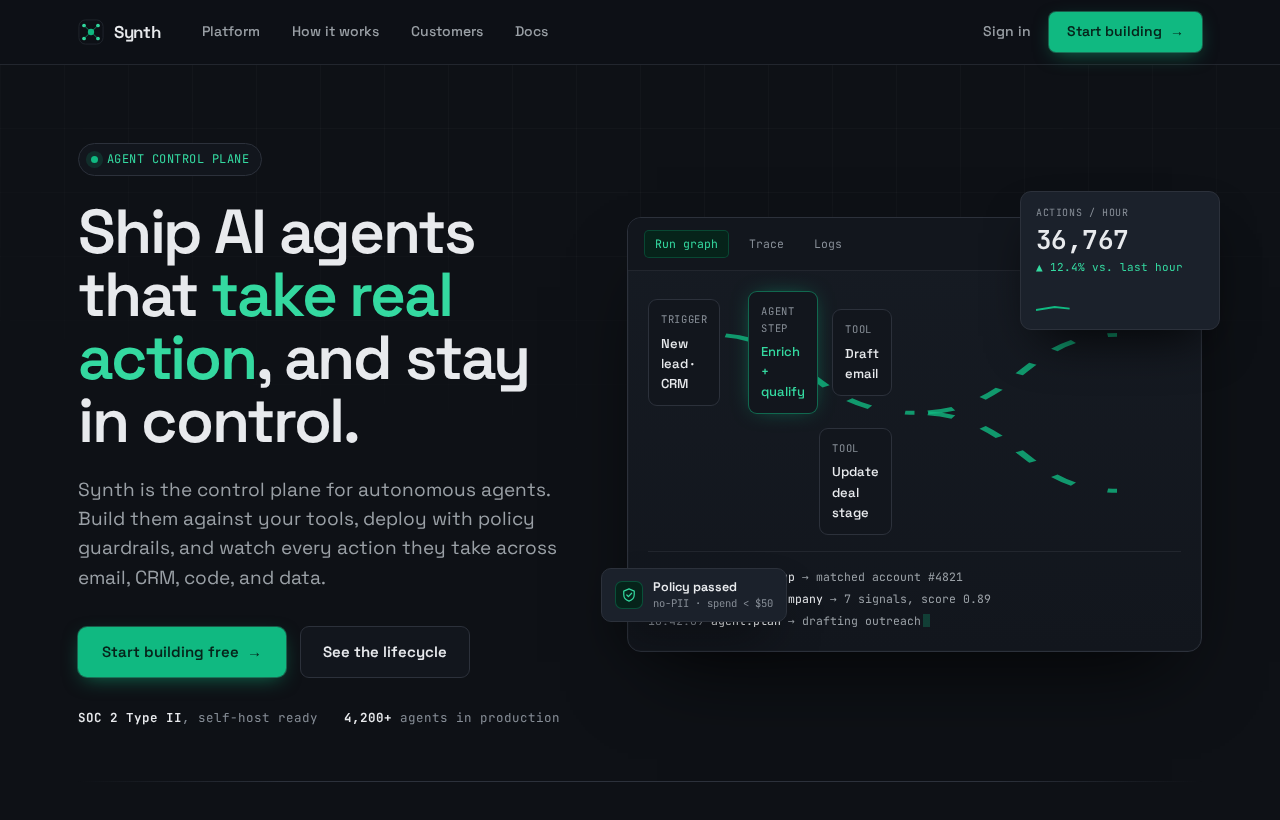
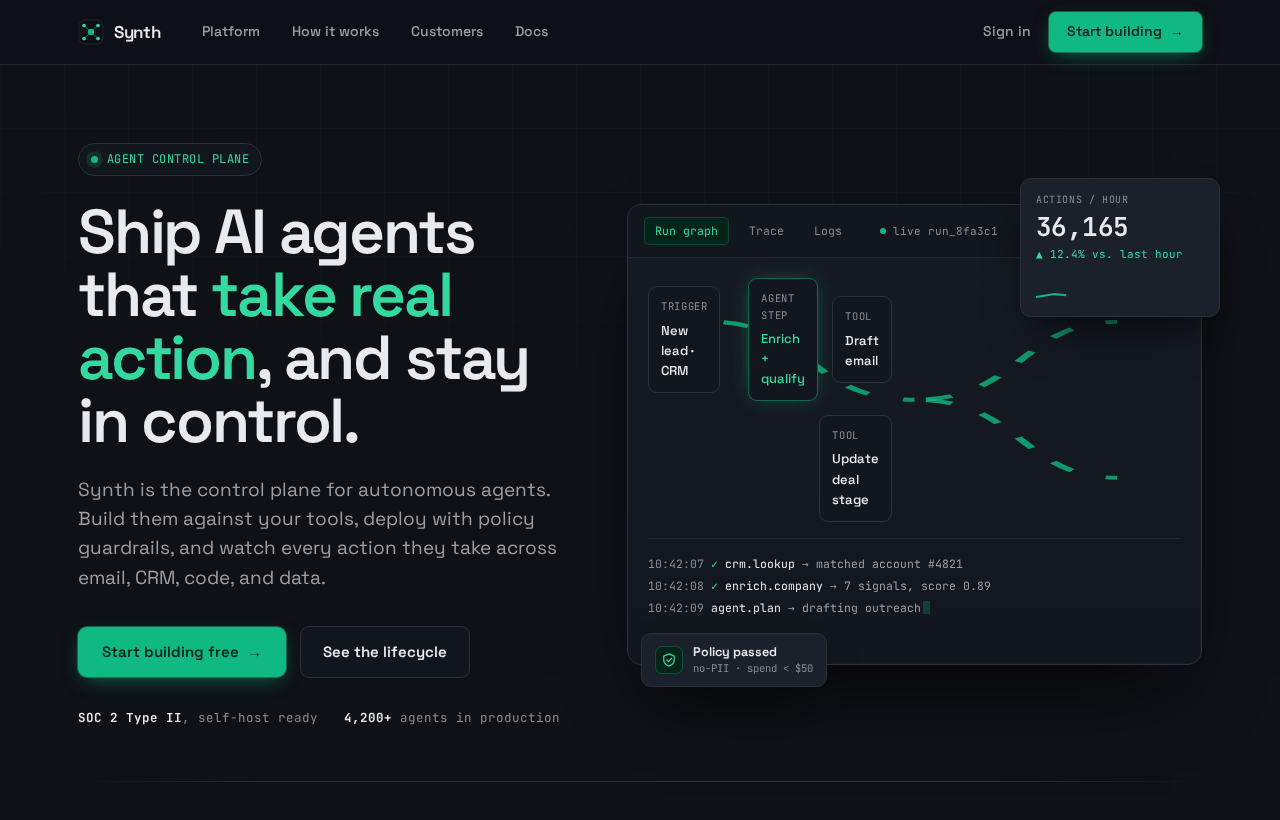
Fix gallery landing overlap + harden review.md against floating-overlay-over-text
User caught real overlaps the generators shipped: a 'Policy passed' badge over
the run-log, and a stat card hiding the live-status text — both in the README
landing. Root-caused and fixed (straddle empty padding / move text out from
under the card; lift nav above the decorative blob), re-rendered a clean
landing.png.

The deeper miss: responsive_check.mjs DID flag these (hard COLLISION + 'verify
deco-over-text'), but the generators waved them through as 'intentional'. New
review.md guidance: floating overlays (stat cards, status badges, toasts, pills)
over text are the most-missed collision — resolve every one at root cause and
confirm by eye; and '◦ verify deco-over-text' is a task, not a pass (a blurred
edge-transparent wash with content z-indexed above is fine; an opaque element
over real text is a defect).

diff --git a/references/capabilities/review.md b/references/capabilities/review.md
@@ -155,6 +155,24 @@ absolutely-positioned card overlapping content AND a non-collapsing grid can bot
 once; don't let one tool's null result collapse a two-cause problem into one. Trust the
 rendered `responsive_check.mjs` sweep + the actual screenshot over any static null.
 
+**Floating overlays over text are the single most-missed collision — never wave them
+through.** A stat card, a status/“policy passed” badge, a toast, or a count pill positioned
+`absolute`/`fixed` over a panel that contains text will silently cover that text. The rendered
+sweep flags these (as a hard `COLLISION`, or as `◦ verify deco-over-text: <card> on <text>`),
+and the failure mode is treating that flag as "intentional layering" and shipping anyway. It is
+not intentional unless you have *looked* and confirmed the text underneath is fully clear.
+Resolve every one at root cause: make the overlay **straddle empty padding** (reserve bottom/edge
+space so it sits over a blank band, not over the last line — same principle as the sticky save
+bar in `forms-craft.md`), **reposition** it to a genuinely empty region, or **move the underlying
+text** out from under it. Re-render and confirm by eye that the covered text is now visible.
+
+**`◦ verify deco-over-text` is a TASK, not a pass.** The sweep lists decoration-over-text
+geometrically, regardless of z-index. You must look at each: a **blurred, edge-transparent
+decorative wash** (a soft radial blob whose opaque center is off-canvas) with the real content
+`z-index`-ed above it is fine — confirm the text reads cleanly. An **opaque card/badge/icon over
+real text** is a defect — fix it. Don't let "it's decorative" auto-clear the check; prove it by
+looking.
+
 The sweep reports **element collisions** (text sitting on top of text) as well as
 overflow. When you find one — or spot one by eye — do not "fix" it with a blind
 nudge (a margin bump, a `top` tweak, a `z-index` bump). That hides it at one width